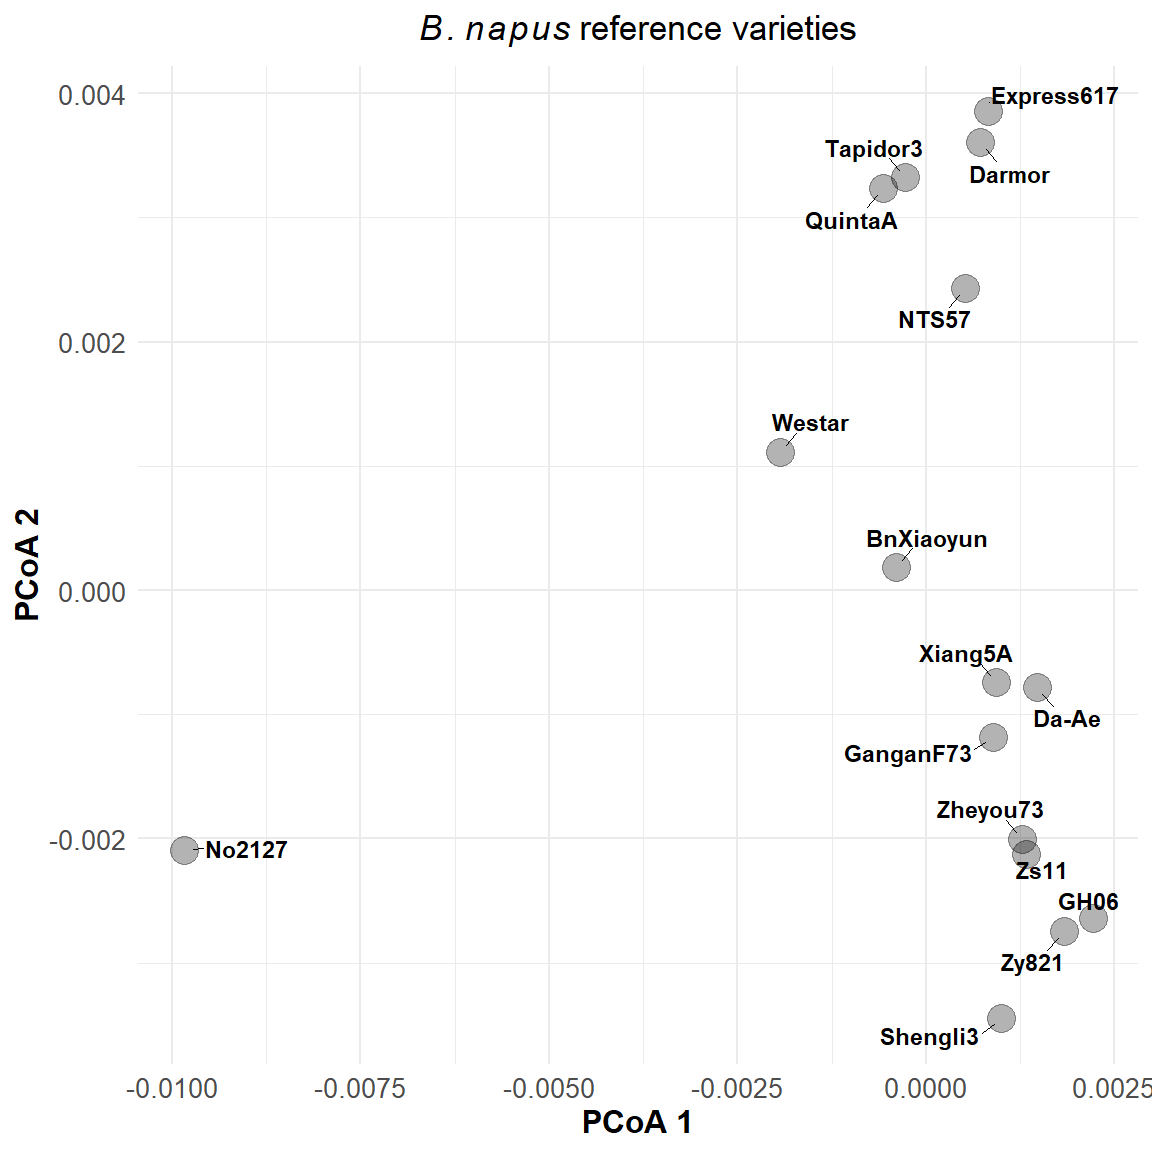
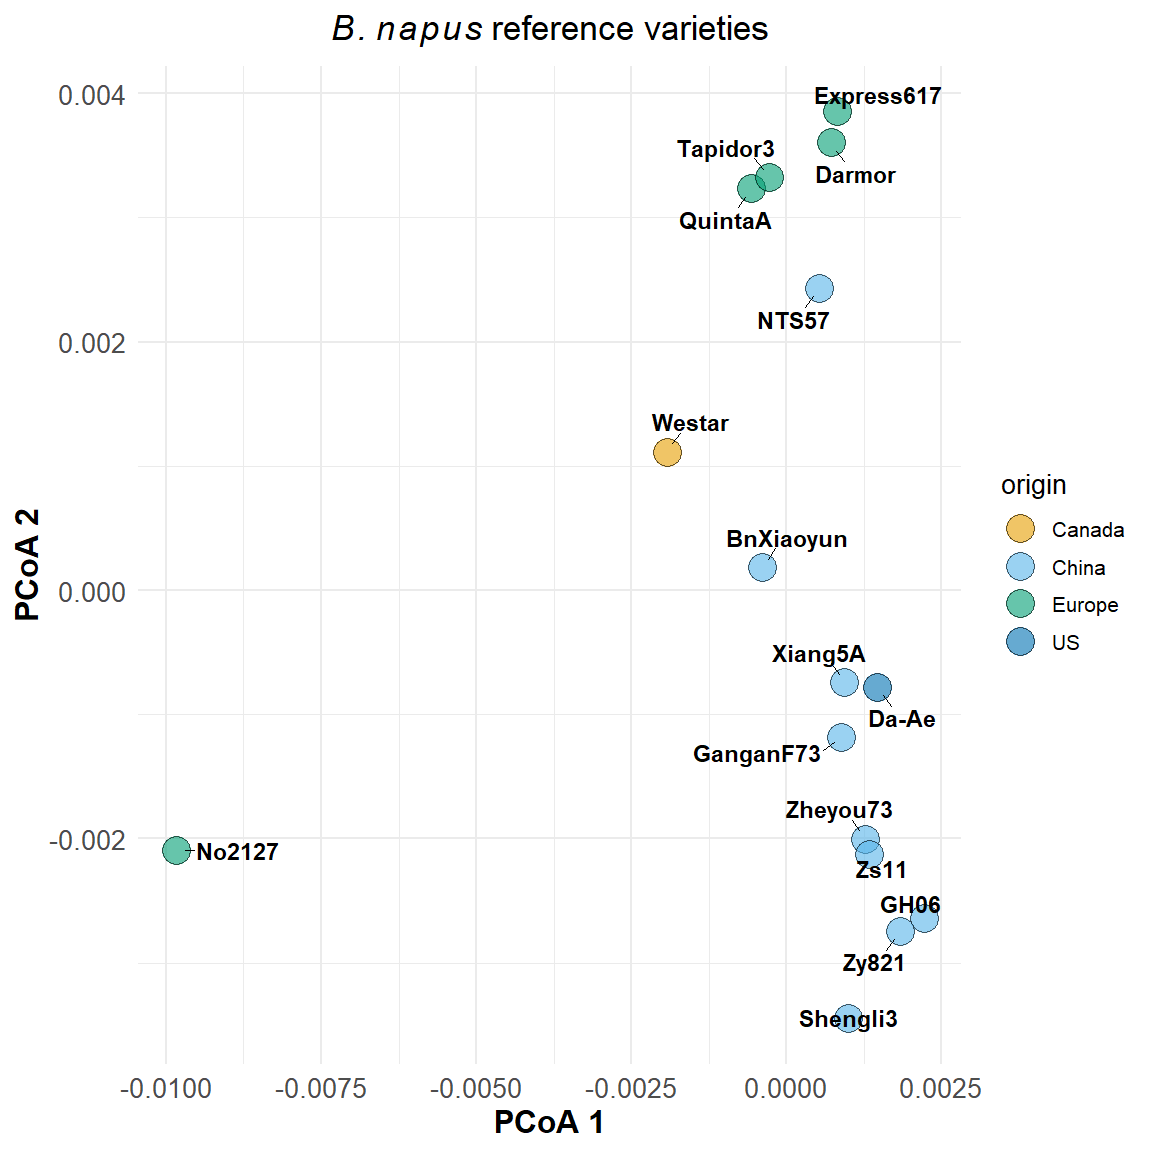
Updated diustance plot

diff --git a/analysis/bnapus16-genomes/Distances_genomes.md b/analysis/bnapus16-genomes/Distances_genomes.md
@@ -32,6 +32,12 @@ dist_mat <- read.table(
   check.names = FALSE
 )
 
+labs <- read.table("data/Varieties_bnapus.csv", 
+                  header = TRUE,
+                  check.names = FALSE,
+                  sep = ','
+)
+
 # 2. Make sure column names match row names (same order)
 colnames(dist_mat) <- rownames(dist_mat)
 
@@ -50,23 +56,73 @@ pcoa_res <- pcoa(dist_obj)
 pcoa_df <- as.data.frame(pcoa_res$vectors[, 1:2])
 pcoa_df$variety <- rownames(pcoa_df)
 
+pcoa_df <- merge(pcoa_df, labs, by.x = "variety", by.y = "var")
+
+scale_fill_manual(values = c(
+  "#E69F00", "#56B4E9", "#009E73", "#0072B2"
+))
+```
+
+    <ggproto object: Class ScaleDiscrete, Scale, gg>
+        aesthetics: fill
+        axis_order: function
+        break_info: function
+        break_positions: function
+        breaks: waiver
+        call: call
+        clone: function
+        dimension: function
+        drop: TRUE
+        expand: waiver
+        get_breaks: function
+        get_breaks_minor: function
+        get_labels: function
+        get_limits: function
+        get_transformation: function
+        guide: legend
+        is_discrete: function
+        is_empty: function
+        labels: waiver
+        limits: NULL
+        make_sec_title: function
+        make_title: function
+        map: function
+        map_df: function
+        n.breaks.cache: NULL
+        na.translate: TRUE
+        na.value: grey50
+        name: waiver
+        palette: function
+        palette.cache: NULL
+        position: left
+        range: environment
+        rescale: function
+        reset: function
+        train: function
+        train_df: function
+        transform: function
+        transform_df: function
+        super:  <ggproto object: Class ScaleDiscrete, Scale, gg>
+
+``` r
 # 5. Plot with ggplot
-ggplot(pcoa_df, aes(x = Axis.1, y = Axis.2, label = variety)) +
+ggplot(pcoa_df, aes(x = Axis.1, y = Axis.2, label = variety, fill = origin)) +
   
-  # Draw large points
-  geom_point(size = 10, alpha = 0.3) +
+  # Draw large filled points with outline
+  geom_point(size = 10, shape = 21, color = "black", alpha = 0.6) +
   
-  # Repel text away from points & other labels
   geom_text_repel(
     size = 6, 
     fontface = "bold",
-    box.padding = 1.0,       # push text away from point
-    point.padding = 0.8,     # treat point as having width/height
+    box.padding = 1.0,
+    point.padding = 0.8,
     min.segment.length = 0,
     max.overlaps = Inf
   ) +
 
   theme_minimal(base_size = 20) +
+  scale_fill_manual(values = c(
+  "#E69F00", "#56B4E9", "#009E73", "#0072B2")) +
   theme(
     axis.title = element_text(size = 24, face = "bold"),
     axis.text = element_text(size = 20),
